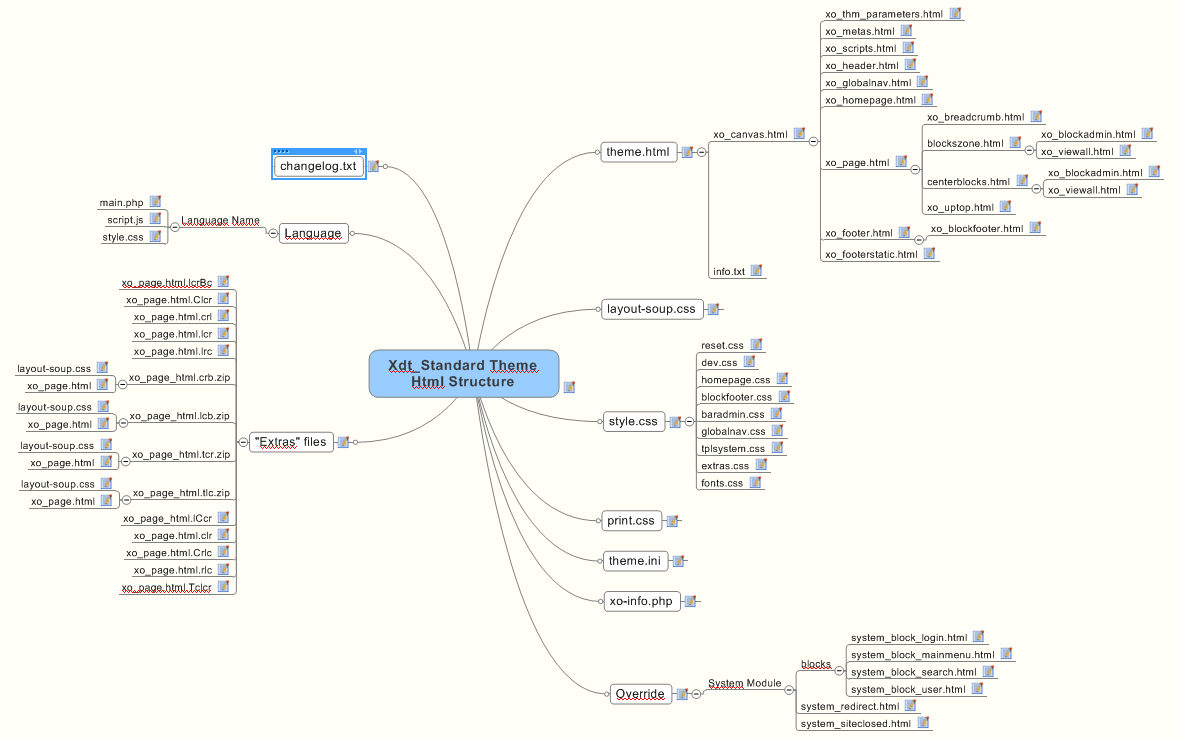
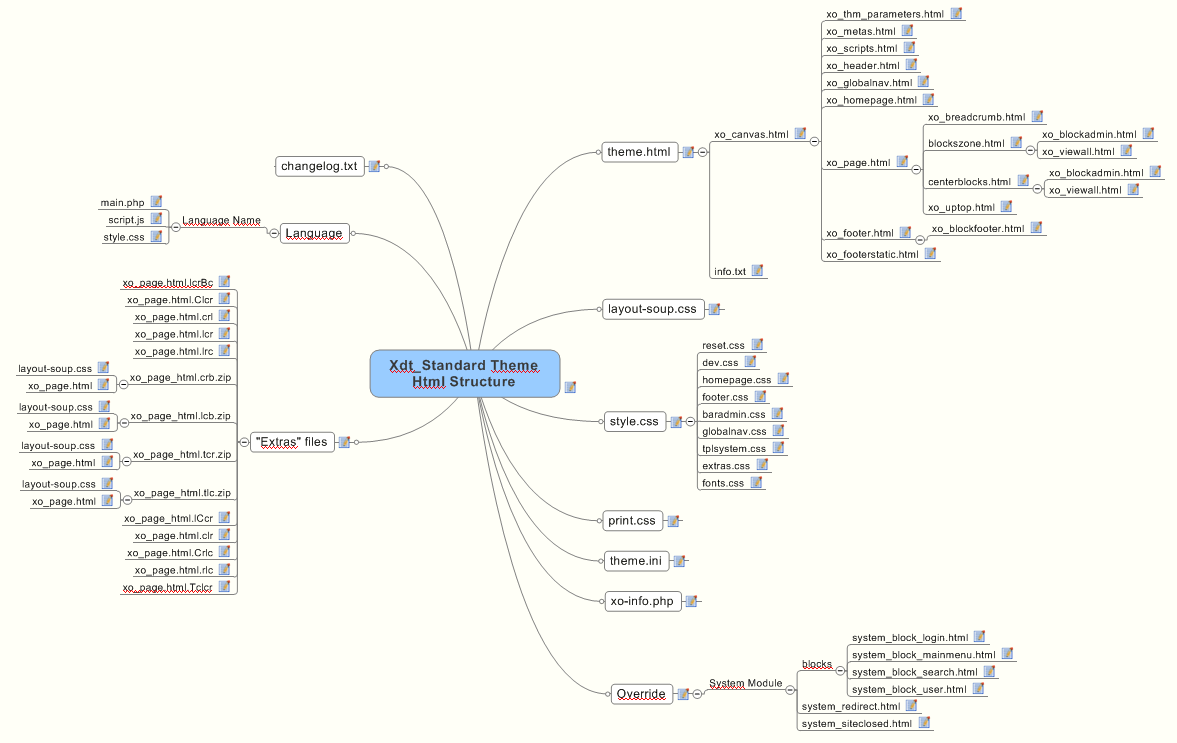
last update xdt standard theme (for release 1.1 RC)

diff --git a/xoops/themes/interface_publique/xdt_standard/trunk/css/style.css b/xoops/themes/interface_publique/xdt_standard/trunk/css/style.css
@@ -21,7 +21,7 @@
 /*@import url(fonts.css);*/ /* style for include specific fonts */
 @import url(globalnav.css); /* style for horizontal menu in header */
 @import url(homepage.css); /* style for specific content in mainpage */
-@import url(blockfooter.css); /* style for blocks in footer */
+@import url(footer.css); /* style for footer (and blockfooter.html) */
 @import url(baradmin.css); /* administration access in footer */
 @import url(tplsystem.css); /* style for templates system : siteclosed, redirection, debug mode, core messages, ... */
 @import url(extras.css); /* extras style for perzonalisation templates */
@@ -380,25 +380,6 @@ input[type=checkbox], input[type=radio] { margin: 3px; padding:2px;}
 	text-align: 					justify;
 }
 
-/* ===== footer ===== */
-#xo-footerbottom {
-	clear: 					both;
-	height:					23px;
-	width:					100%;
-	margin:					0;
-	background : 				#fff url(../img/hbar.gif) repeat-x left top;
-	text-align:					center;
-	font-size:					.8em;
-}
-#xo-footer { }
-/* for text $xoops_footer */
-#xo-copyright { padding-top: 3px;}
-/* rss button in footer */
-#xo-rss {
-	clear: 					both;
-	float:						right;
-	margin:					4px 0;
-}
 /* ===== tables and cells ===== */
 table {width:100%; border-collapse: collapse;}
 #xo-page table {margin-bottom: 1em;}
@@ -459,7 +440,8 @@ tr.odd td {
 /* ===== codes and quotes ===== */
 .xoopsCode {
 	max-height: 			200px;
-	overflow: 				auto;
+	overflow : 				auto;
+	word-wrap : 			break-word;
 	background-color: 		#fff;
 	padding: 				6px;
 	color: 				inherit;
@@ -468,6 +450,8 @@ tr.odd td {
 }
 .xoopsQuote {
 	background-color: 		#fff;
+	overflow : 				auto;
+	word-wrap : 			break-word;
 	padding: 				6px; color: #666;
 	font-family: 			"Courier New",Courier,monospace;
 	border: 				1px dashed #639ace;

diff --git a/xoops/themes/interface_publique/xdt_standard/trunk/css/footer.css b/xoops/themes/interface_publique/xdt_standard/trunk/css/footer.css
@@ -11,6 +11,26 @@
  * @version         $Id$
 */
 
+/* ===== footer ===== */
+#xo-footerbottom {
+	clear: 					both;
+	height:					23px;
+	width:					100%;
+	margin:					0;
+	background : 				#fff url(../img/hbar.gif) repeat-x left top;
+	text-align:					center;
+	font-size:					.8em;
+}
+#xo-footer { }
+/* for text $xoops_footer */
+#xo-copyright { padding-top: 3px;}
+/* rss button in footer */
+#xo-rss {
+	clear: 					both;
+	float:						right;
+	margin:					4px 0;
+}
+
 /*========== xo_blockfooter.html in footer ==========*/
 #xo-blockfooter {
 	width: 					100%;
